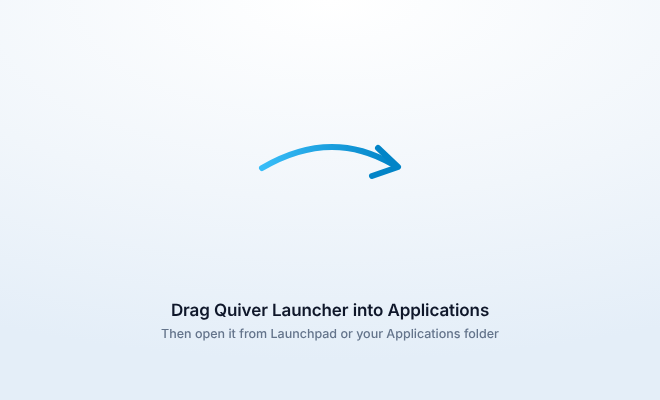
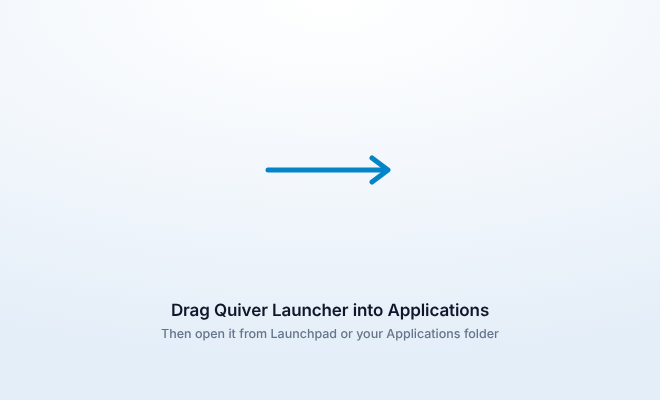
Use a plain straight arrow in the DMG background
Claude-Session: https://claude.ai/code/session_015HpW11EuhDwzjjCEQXoSG5

Changed region(s): [[0.3939, 0.36, 0.6061, 0.48]]

diff --git a/apps/launcher/src-tauri/dmg/background.html b/apps/launcher/src-tauri/dmg/background.html
@@ -9,9 +9,8 @@ body{width:660px;height:400px;overflow:hidden;font-family:Inter,sans-serif;
 svg{position:absolute;left:0;top:0}
 </style></head><body>
 <svg width="660" height="400" viewBox="0 0 660 400">
- <defs><linearGradient id="g" x1="0" x2="1"><stop offset="0" stop-color="#38bdf8"/><stop offset="1" stop-color="#0284c7"/></linearGradient></defs>
- <path d="M262 168 Q330 128 392 164" fill="none" stroke="url(#g)" stroke-width="6" stroke-linecap="round"/>
- <path d="M378 148 L398 167 L372 176" fill="none" stroke="#0284c7" stroke-width="6" stroke-linecap="round" stroke-linejoin="round"/>
+ <line x1="268" y1="170" x2="384" y2="170" stroke="#0284c7" stroke-width="5" stroke-linecap="round"/>
+ <path d="M372 158 L388 170 L372 182" fill="none" stroke="#0284c7" stroke-width="5" stroke-linecap="round" stroke-linejoin="round"/>
 </svg>
 <div class="t">Drag Quiver Launcher into Applications</div>
 <div class="s">Then open it from Launchpad or your Applications folder</div>
